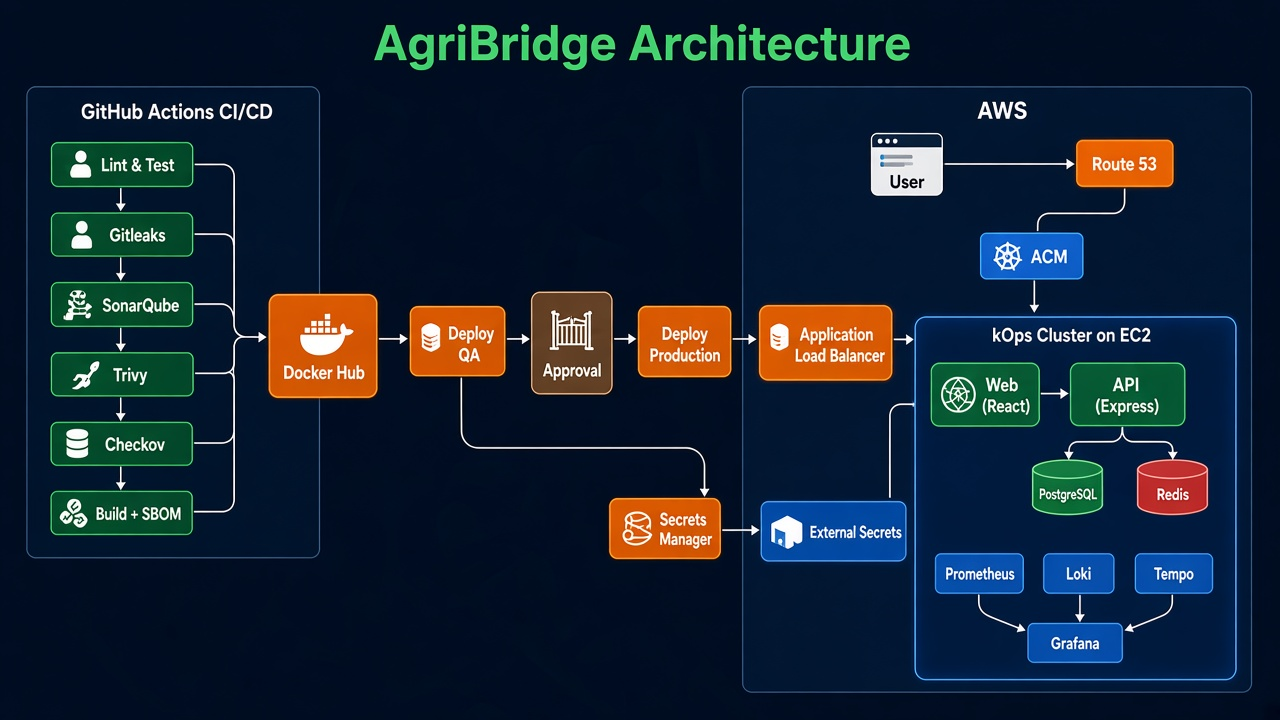
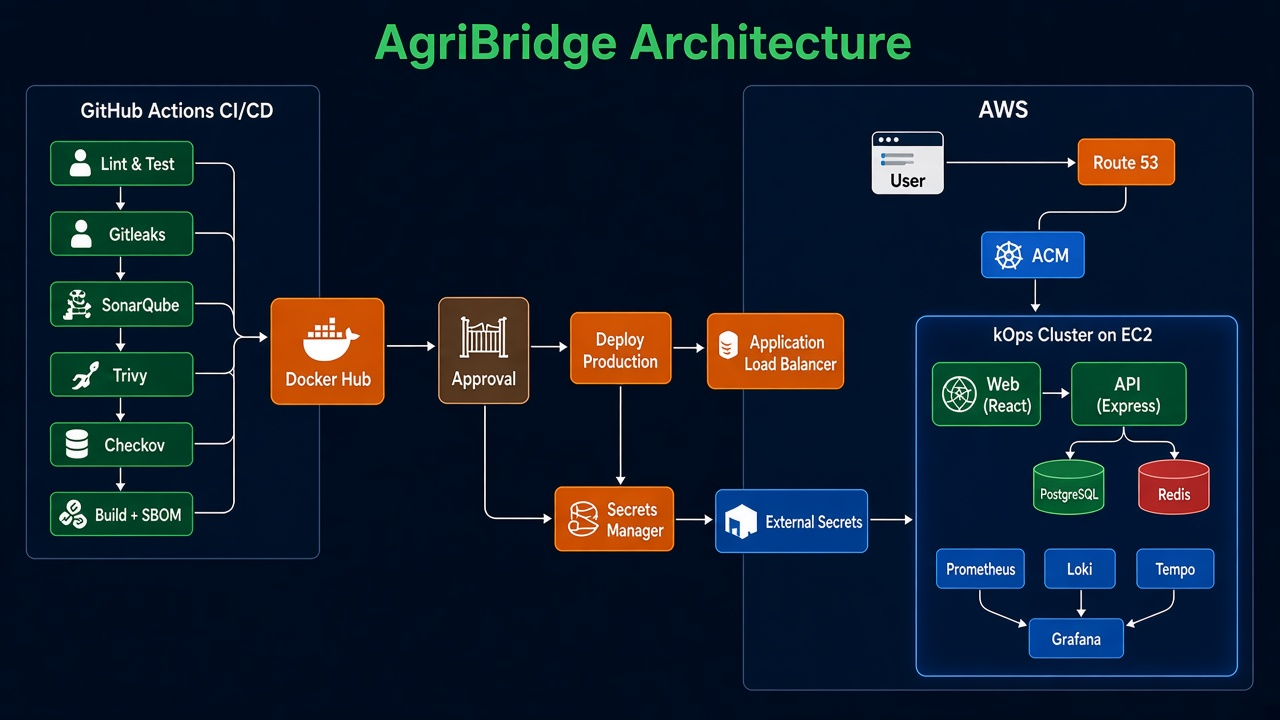
Drop QA and deploy only to production (#14)
Pushes to main still build, test, scan and push the images, then wait on the
production environment before the Helm install. The next terraform apply
destroys the qa GitHub environment, QA_URL, the QA backup role and the
agribridge/qa secret without an import or a state edit.

diff --git a/scripts/test_route53_cleanup.py b/scripts/test_route53_cleanup.py
@@ -10,17 +10,17 @@ class Route53CleanupTest(unittest.TestCase):
             {"Name": "agribridge.deuces.dev.", "Type": "SOA", "TTL": 900, "ResourceRecords": [{"Value": "ns-1.awsdns-00.com. hostmaster.amazon.com. 1 7200 900 1209600 86400"}]},
             {"Name": "_abc.agribridge.deuces.dev.", "Type": "CNAME", "TTL": 60, "ResourceRecords": [{"Value": "example.acm-validations.aws."}]},
             {
-                "Name": "qa.agribridge.deuces.dev.",
+                "Name": "production.agribridge.deuces.dev.",
                 "Type": "A",
                 "AliasTarget": {"DNSName": "example.elb.amazonaws.com.", "HostedZoneId": "Z1", "EvaluateTargetHealth": False},
             },
-            {"Name": "qa.agribridge.deuces.dev.", "Type": "TXT", "TTL": 300, "ResourceRecords": [{"Value": "\"heritage=external-dns\""}]},
+            {"Name": "production.agribridge.deuces.dev.", "Type": "TXT", "TTL": 300, "ResourceRecords": [{"Value": "\"heritage=external-dns\""}]},
         ]
         changes = changes_for(records, "agribridge.deuces.dev")
         kinds = [(change["ResourceRecordSet"]["Name"], change["ResourceRecordSet"]["Type"]) for change in changes]
         self.assertEqual(kinds, [
-            ("qa.agribridge.deuces.dev.", "A"),
-            ("qa.agribridge.deuces.dev.", "TXT"),
+            ("production.agribridge.deuces.dev.", "A"),
+            ("production.agribridge.deuces.dev.", "TXT"),
         ])
         self.assertIn("AliasTarget", changes[0]["ResourceRecordSet"])
 

diff --git a/README.md b/README.md
@@ -5,7 +5,8 @@ and both can follow an order through fulfilment. The web app is React and Vite.
 The API is Express, with PostgreSQL and Redis.
 
 Local development uses Docker Compose. The cloud environment is a kOps cluster
-on AWS, with a short GitHub Actions pipeline that deploys QA and then production.
+on AWS, with a short GitHub Actions pipeline that deploys production after a
+reviewer approves it.
 
 ## Features
 
@@ -21,24 +22,22 @@ on AWS, with a short GitHub Actions pipeline that deploys QA and then production
 
 The diagram is the delivery path. kOps renders the cluster into Terraform, and Terraform creates it.
 
-A request reaches the API like this. A browser opens the QA or production
-hostname. Route 53 sends it to one Application Load Balancer. TLS is the ACM
+A request reaches the API like this. A browser opens the production hostname.
+Route 53 sends it to one Application Load Balancer. TLS is the ACM
 certificate. The load balancer sends traffic to the web pod, which serves the
-React app and proxies `/api` to Express in the same namespace. Express stores
-data in PostgreSQL and caches in Redis. If Redis is down, the API keeps reading
-PostgreSQL and says so on `/readyz`.
+React app and proxies `/api` to Express. Express stores data in PostgreSQL and
+caches in Redis. If Redis is down, the API keeps reading PostgreSQL and says
+so on `/readyz`.
 
 Locally, Docker Compose runs the same four processes on your machine. In AWS
-they run from one Helm chart, `helm/agribridge`, with `values-qa.yaml` and
-`values-production.yaml`. The namespaces are `agribridge-qa` and
-`agribridge-production`. They share an image tag and keep separate database
-volumes and secrets.
+they run from one Helm chart, `helm/agribridge`, with `values.yaml` and
+`values-production.yaml`, in the namespace `agribridge-production`.
 
 The picture is the delivery path. The workflow file is [`.github/workflows/cicd.yaml`](.github/workflows/cicd.yaml).
 SonarQube runs on `main` only when `SONAR_TOKEN` and `SONAR_HOST_URL` are set.
 On `main`, the images are pushed to `docker.io/macroni607/agribridge-api` and
-`docker.io/macroni607/agribridge-web`. QA installs immediately. Production
-waits for the `production` GitHub environment, then installs the same tag.
+`docker.io/macroni607/agribridge-web`. Production waits for the `production`
+GitHub environment, then installs that tag.
 Pull requests and pushes to `dev` stop after the scans. They do not push or deploy.
 
 kOps renders the cluster from [`kops/cluster.yaml`](kops/cluster.yaml) into
@@ -48,8 +47,8 @@ The same root creates the public DNS zone, the certificate, the Secrets
 Manager secrets, the backup bucket and the IRSA roles for External Secrets,
 ExternalDNS and the database backup. A second apply installs External Secrets,
 ExternalDNS and the monitoring charts. External Secrets copies `PGPASSWORD`,
-`JWT_SECRET`, and `SEED_PASSWORD` into each namespace. The role trust uses the
-kOps issuer and the audience `amazonaws.com`. Production runs a daily
+`JWT_SECRET`, and `SEED_PASSWORD` into the production namespace. The role
+trust uses the kOps issuer and the audience `amazonaws.com`. Production runs a daily
 `pg_dump` to S3. Grafana is at `https://grafana.<zone>` and asks for the admin
 password.
 
@@ -61,9 +60,9 @@ is installed and empty.
 |---|---|
 | Frontend | React and Vite, served by NGINX |
 | API | Express on Node.js |
-| Data | PostgreSQL and Redis, one volume per namespace |
+| Data | PostgreSQL and Redis in `agribridge-production` |
 | Local | Docker Compose |
-| Chart | `helm/agribridge` with QA and production values |
+| Chart | `helm/agribridge` with `values-production.yaml` |
 | Cluster | kOps, rendered to Terraform in `terraform/kops` |
 | AWS around the cluster | `terraform/`: zone, certificate, secrets, backup bucket, IRSA, platform charts |
 | Images | Docker Hub `macroni607/agribridge-api` and `macroni607/agribridge-web` |
@@ -73,9 +72,9 @@ is installed and empty.
 
 The repository does not include Argo CD, an NGINX ingress or a Network Load
 Balancer, Fluent Bit or CloudWatch logs, composite actions, or separate
-Terraform roots. The environment name is QA, not staging. Build the cloud
-environment in the order in [docs/SETUP.md](docs/SETUP.md). The longer
-explanation is [docs/ARCHITECTURE.md](docs/ARCHITECTURE.md).
+Terraform roots. Build the cloud environment in the order in
+[docs/SETUP.md](docs/SETUP.md). The longer explanation is
+[docs/ARCHITECTURE.md](docs/ARCHITECTURE.md).
 
 ## Quick start
 
@@ -101,8 +100,8 @@ before you start.
 | Farmer | `amina.yusuf@example.ng` |
 | Buyer | `procurement@sahelmills.example` |
 
-The password is the value of `SEED_PASSWORD` in your local `.env`. QA can load
-the same demonstration data. Production does not.
+The password is the value of `SEED_PASSWORD` in your local `.env`. Production
+leaves `SEED_DEMO_DATA` off.
 
 ### Useful commands
 
@@ -133,9 +132,9 @@ SonarQube coverage helper tests. It needs Helm, Terraform and Python 3.
 ## Cloud delivery
 
 GitHub Actions lints and tests the app, scans for secrets and vulnerabilities,
-builds both images, writes a SBOM, and pushes them to Docker Hub. It then
-installs the Helm chart in QA. Production waits for a reviewer on the
-`production` environment and installs the same image tag.
+builds both images, writes a SBOM, and pushes them to Docker Hub. Production
+waits for a reviewer on the `production` environment and installs that image
+tag.
 
 kOps renders the cluster and Terraform creates it, the zone, the certificate,
 the IAM roles and the platform charts. `scripts/bootstrap-state.sh` creates

diff --git a/docs/SETUP.md b/docs/SETUP.md
@@ -141,12 +141,11 @@ kubectl get nodes
 ## Stage 4. GitHub settings Terraform does not own
 
 Terraform writes `AWS_ROLE_ARN`, `AWS_REGION`, `ACM_CERTIFICATE_ARN`,
-`KOPS_STATE_STORE`, `KOPS_CLUSTER_NAME`, `ZONE_NAME`, `QA_URL`,
-`PRODUCTION_URL`, `GRAFANA_URL`, `BACKUP_BUCKET`, `BACKUP_ROLE_PRODUCTION`
-and `BACKUP_ROLE_QA`. It also creates the `qa` and `production` environments
-and adds `github_reviewer` (default `DeucesDevops`) as the required reviewer
-on production. `prevent_self_review` is false, so that person can approve
-their own production deployment.
+`KOPS_STATE_STORE`, `KOPS_CLUSTER_NAME`, `ZONE_NAME`, `PRODUCTION_URL`,
+`GRAFANA_URL`, `BACKUP_BUCKET` and `BACKUP_ROLE_PRODUCTION`. It also creates
+the `production` environment and adds `github_reviewer` (default
+`DeucesDevops`) as the required reviewer. `prevent_self_review` is false, so
+that person can approve their own production deployment.
 
 Create these yourself. They are credentials for systems outside this AWS account.
 
@@ -166,29 +165,54 @@ You can delete an old `CLUSTER_NAME` variable. The workflow reads
 `KOPS_CLUSTER_NAME`.
 
 Push to `main`, or re-run the **CI/CD** workflow there. The run lints, tests,
-scans, builds, pushes both images to Docker Hub, deploys QA, and then waits
-on production. Approve the production environment in GitHub. That approval is
-the human gate the pipeline is supposed to have.
+scans, builds, pushes both images to Docker Hub, and waits on the production
+environment. Approve that environment in GitHub. That approval is the human
+gate the pipeline is supposed to have.
 
-QA is `https://qa.<zone>`. Production is `https://production.<zone>`.
-Grafana is `https://grafana.<zone>`. The user is `admin`. The password is in
-Secrets Manager:
+Production is `https://production.<zone>`. Grafana is `https://grafana.<zone>`.
+The user is `admin`. The password is in Secrets Manager:
 
 ```sh
 aws secretsmanager get-secret-value --secret-id agribridge/grafana \
   --query SecretString --output text
 ```
 
-The QA demo password is in `agribridge/qa`, field `SEED_PASSWORD`. Production
-does not load demo users.
+Production leaves `SEED_DEMO_DATA` off. The local demo password is
+`SEED_PASSWORD` in `.env`.
+
+## Remove the live QA release
+
+Helm installed the QA release, so Terraform does not delete it. Run this once
+against the live cluster after this change is on `main`:
+
+```sh
+kops export kubeconfig --admin --name k8s.agribridge.deuces.dev
+helm uninstall agribridge --namespace agribridge-qa
+kubectl delete namespace agribridge-qa
+```
+
+The next `terraform apply` deletes the QA resources that are already in state.
+Export `GITHUB_TOKEN` first, the same way stage 3 does. The apply removes:
+
+- the GitHub environment `qa`
+- the Actions variables `QA_URL` and `BACKUP_ROLE_QA`
+- the IAM role `agribridge-backup-qa` and its policy
+- the Secrets Manager secret `agribridge/qa`, including its generated passwords
+
+No import and no `terraform state` edit is required. Those addresses are
+already in the state from the current `main` apply. Taking them out of the
+configuration is what makes the next apply destroy them. Do not `state rm`
+them first. That would leave the AWS and GitHub objects behind.
+
+ExternalDNS is `upsert-only`, so the `qa.<zone>` records stay after the
+Ingress is gone. In the hosted zone, delete the A and TXT records for
+`qa.<zone>`. Leave `production.<zone>` and `grafana.<zone>`.
 
 ## Stage 5. Show a backup and a restore
 
 Production installs a CronJob that runs `pg_dump` at 02:15 UTC and uploads
 the file to `s3://<backup-bucket>/production/`. A copy is also written to
-`production/latest.sql`. Objects expire after 30 days. QA has the same chart
-switch and leaves it off. Set `backup.enabled: true` in `values-qa.yaml` and
-redeploy when you want a QA copy under the `qa/` prefix.
+`production/latest.sql`. Objects expire after 30 days.
 
 ```sh
 ./scripts/demo-backup-restore.sh agribridge-production
@@ -221,8 +245,6 @@ helm history agribridge --namespace agribridge-production
 helm rollback agribridge REVISION --namespace agribridge-production
 ```
 
-Use the same commands in `agribridge-qa`.
-
 Tear down with `scripts/teardown-environment.sh`. A plain `terraform destroy`
 is the wrong first command. The application Ingress is installed by GitHub
 Actions, so Terraform will delete the load balancer controller while that
@@ -238,7 +260,6 @@ The script does this:
 export GITHUB_TOKEN=...
 export KOPS_STATE_STORE=s3://kops-state-607
 kops export kubeconfig --admin --name k8s.agribridge.deuces.dev
-helm uninstall agribridge --namespace agribridge-qa
 helm uninstall agribridge --namespace agribridge-production
 terraform -chdir=terraform destroy -var install_platform=true -target=module.platform
 python3 scripts/route53_cleanup.py "$(terraform -chdir=terraform output -raw zone_id)" --apply

diff --git a/docs/ARCHITECTURE.md b/docs/ARCHITECTURE.md
@@ -16,11 +16,10 @@ processes run in Kubernetes from one chart, `helm/agribridge`.
 
 | File | Namespace | Host | Demo data |
 |---|---|---|---|
-| `values-qa.yaml` | `agribridge-qa` | `qa.<zone>` | Loaded on startup |
 | `values-production.yaml` | `agribridge-production` | `production.<zone>` | Not loaded |
 
-Both releases use one image tag. Each namespace has its own database volume
-and its own Secrets Manager secret.
+The release uses the image tag built on `main`. The namespace has its own
+database volume and the Secrets Manager secret `agribridge/production`.
 
 ## Pipeline
 
@@ -28,10 +27,9 @@ The file is [`.github/workflows/cicd.yaml`](../.github/workflows/cicd.yaml).
 SonarQube runs on `main` when `SONAR_TOKEN` and `SONAR_HOST_URL` are set, and
 the job succeeds with a skip message otherwise. A push to `main` publishes
 `docker.io/macroni607/agribridge-api` and
-`docker.io/macroni607/agribridge-web`, then runs `helm upgrade` in
-`agribridge-qa`. The `production` GitHub environment must approve the same tag
-before the production install. Pull requests and `dev` finish after the image
-scan and SBOM.
+`docker.io/macroni607/agribridge-web`. The `production` GitHub environment
+must approve that tag before `helm upgrade` runs in `agribridge-production`.
+Pull requests and `dev` finish after the image scan and SBOM.
 
 ## Cluster and AWS
 
@@ -54,7 +52,7 @@ The same root also creates:
 
 - the public Route 53 zone and the ACM certificate for the zone and `*.zone`
 - the GitHub Actions OIDC role, and it writes that role ARN to GitHub
-- Secrets Manager secrets `agribridge/qa`, `agribridge/production` and `agribridge/grafana`
+- Secrets Manager secrets `agribridge/production` and `agribridge/grafana`
 - IRSA roles for External Secrets, ExternalDNS and the database backup. The load balancer controller and the EBS driver roles are in the kOps output
 - the kOps state bucket, the OIDC discovery bucket and the backup bucket
 - the platform Helm releases, on a second apply, once the API answers
@@ -64,7 +62,7 @@ needs that bucket before the first `init`, so it cannot create it.
 
 ## Traffic and secrets
 
-Route 53 names `qa.<zone>` and `production.<zone>` point at one ALB. The
+The Route 53 name `production.<zone>` points at the ALB. The
 Ingress in the Helm chart asks the load balancer controller for that ALB and
 attaches the ACM certificate. ExternalDNS creates the records from the Ingress
 host.
@@ -75,7 +73,7 @@ the kOps issuer and the audience `amazonaws.com`. The synced secret supplies
 
 Production PostgreSQL is backed up by a CronJob in the application chart. It
 runs `pg_dump` and uploads the file to S3 with its own IRSA role. Restore is
-`scripts/restore-postgres.sh`. QA uses the same switch and leaves it off.
+`scripts/restore-postgres.sh`.
 
 ## Observability
 
@@ -90,4 +88,4 @@ Manager.
 
 Argo CD, an NGINX ingress controller, a Network Load Balancer, Fluent Bit,
 CloudWatch Logs, composite GitHub Actions, and extra Terraform roots are not
-part of this design. The environment name is QA.
+part of this design.

diff --git a/docs/PIPELINE.md b/docs/PIPELINE.md
@@ -11,8 +11,7 @@ Jobs run in this order. A failure stops everything after it.
 | Trivy filesystem scan | Fails on high or critical findings in `api/` and `frontend/` |
 | Checkov and configuration | `terraform fmt`, `terraform validate`, `helm lint`, then Checkov on Terraform, the rendered chart and both Dockerfiles |
 | Build, scan, SBOM and push | Builds both images, scans them with Trivy, writes CycloneDX SBOMs, and pushes to Docker Hub on `main` |
-| Deploy QA | `helm upgrade` into `agribridge-qa` |
-| Deploy production | Waits for the `production` environment, then installs the same tag into `agribridge-production` |
+| Deploy production | Waits for the `production` environment, then installs that tag into `agribridge-production` |
 
 Pull requests and pushes to `dev` run through the image scan. They do not push
 or deploy. A push to `main` pushes and deploys only after `AWS_ROLE_ARN` is set.
@@ -38,8 +37,6 @@ Create these under **Settings → Secrets and variables → Actions**.
 | Variable | `ACM_CERTIFICATE_ARN` | For deploy | Terraform writes this |
 | Variable | `BACKUP_BUCKET` | For production | Terraform writes this |
 | Variable | `BACKUP_ROLE_PRODUCTION` | For production | Terraform writes this |
-| Variable | `BACKUP_ROLE_QA` | No | Terraform writes this. QA backup stays off unless the values file enables it |
-| Variable | `QA_URL` | No | Terraform writes `https://qa.<zone>` |
 | Variable | `PRODUCTION_URL` | No | Terraform writes `https://production.<zone>` |
 | Variable | `GRAFANA_URL` | No | Terraform writes `https://grafana.<zone>` |
 | Variable | `SONAR_HOST_URL` | No | HTTPS URL of SonarQube. The job skips when this is empty |
@@ -60,16 +57,16 @@ The report step does not decide that.
 
 ## Environments
 
-Create two environments under **Settings → Environments**.
+Terraform creates one environment, `production`, and adds `github_reviewer`
+as a required reviewer.
 
 | Environment | Reviewers | What it protects |
 |---|---|---|
-| `qa` | None | The QA Helm install. It should start as soon as the images are pushed |
-| `production` | Required reviewer | The production Helm install. Add yourself before the first production deploy |
+| `production` | Required reviewer | The production Helm install. The reviewer has to approve before the job starts |
 
 GitHub creates an environment automatically the first time a job uses it, and
-that automatic environment has no reviewers. Create `production` and add a
-required reviewer first, or the first promotion will not wait.
+that automatic environment has no reviewers. Let Terraform create `production`
+and add the reviewer before the first deploy, or the first deploy will not wait.
 
 The deploy role can read the kOps state bucket. `kops export kubeconfig --admin`
 uses that to write a kubeconfig, which is what `helm upgrade` needs. The

diff --git a/terraform/README.md b/terraform/README.md
@@ -9,9 +9,9 @@ writes into `kops/` from `kops/cluster.yaml`.
 | `cluster.tf` | The module call for that output |
 | `dns.tf` | Public Route 53 zone, ACM certificate, validation records |
 | `buckets.tf` | kOps state bucket, OIDC discovery bucket, private backup bucket |
-| `secrets.tf` | QA, production and Grafana secrets |
+| `secrets.tf` | Production and Grafana secrets |
 | `iam.tf` | GitHub Actions role, and IRSA for External Secrets, ExternalDNS and backups |
-| `github.tf` | Actions variables and the `qa` and `production` environments |
+| `github.tf` | Actions variables and the `production` environment |
 | `platform.tf` | Helm releases, on the second apply |
 | `modules/platform` | External Secrets, ExternalDNS, Loki, Tempo, Prometheus, Grafana, Promtail |
 
